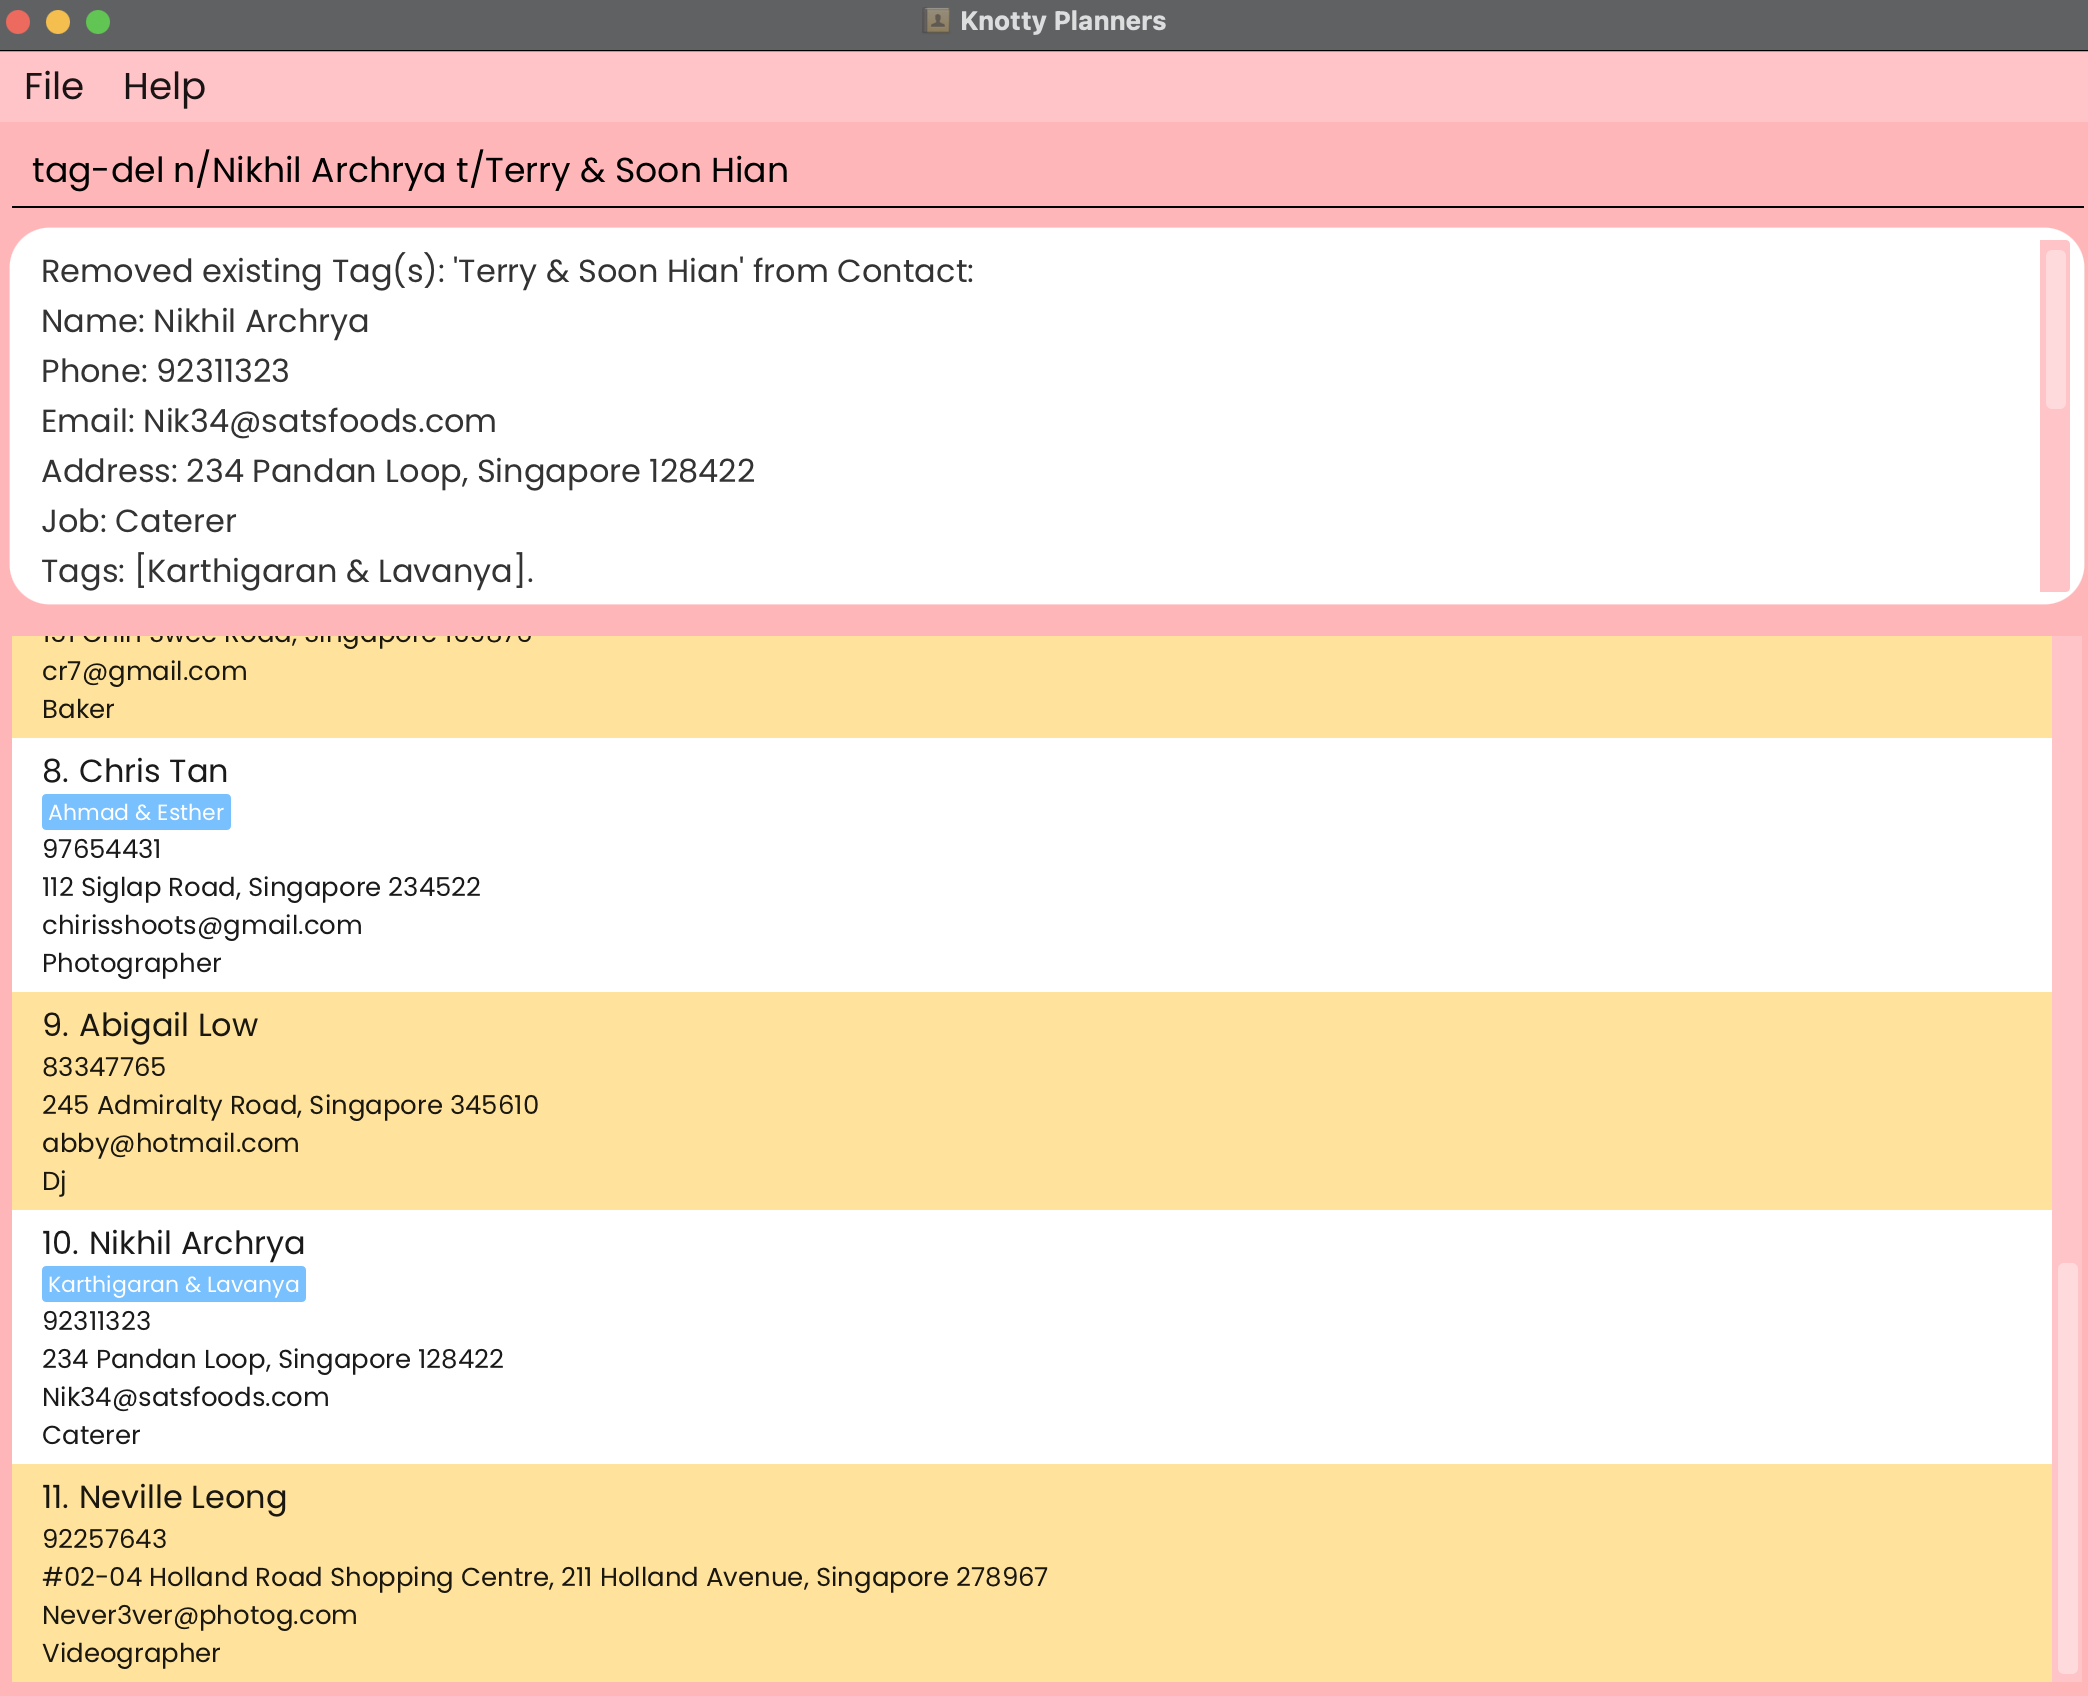
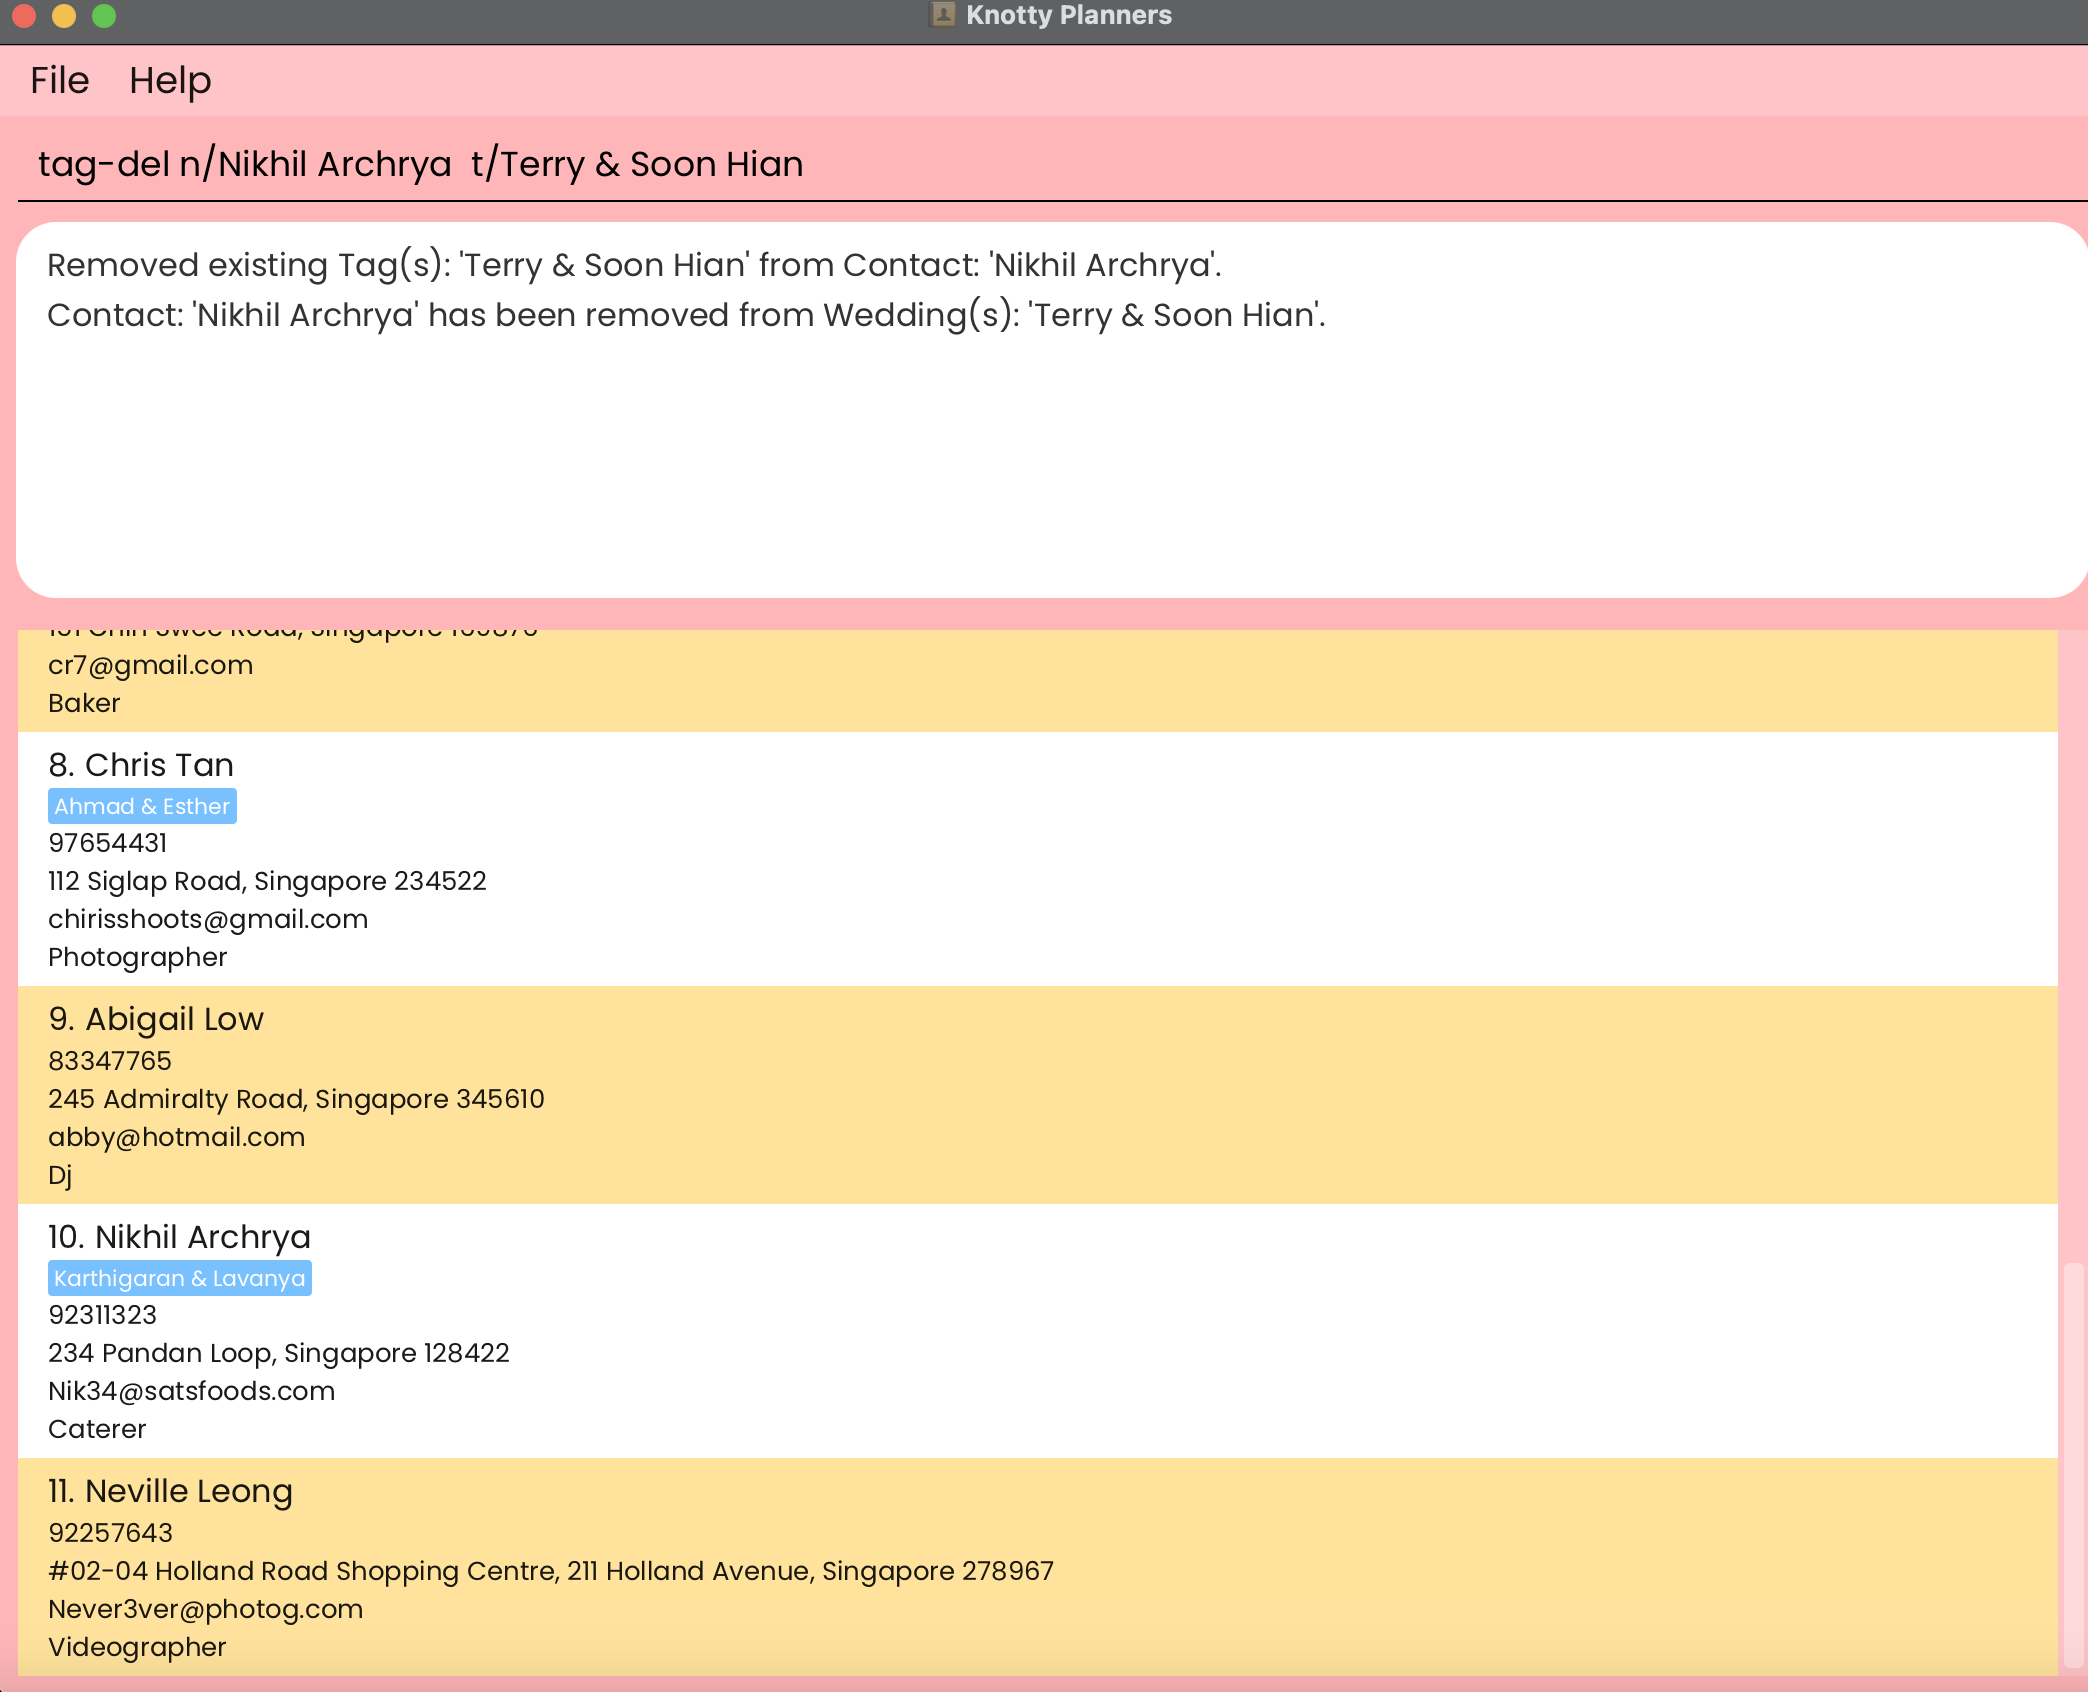
update screenshots after bug fix
tag add and tag del command screenshots

diff --git a/docs/UserGuide.md b/docs/UserGuide.md
@@ -310,7 +310,7 @@ Format: `tag-add n/NAME t/TAG...`
         <div>Before</div>
     </div>
     <div style="text-align: center; width: 50%;">
-        <img src="images/tagAddMsg2.png" alt="tag-add message after" style="width: 50%;">
+        <img src="images/tagAddMsg2.png" alt="tag-add message after" style="width: 100%;">
         <div>After</div>
     </div>
 </div>
